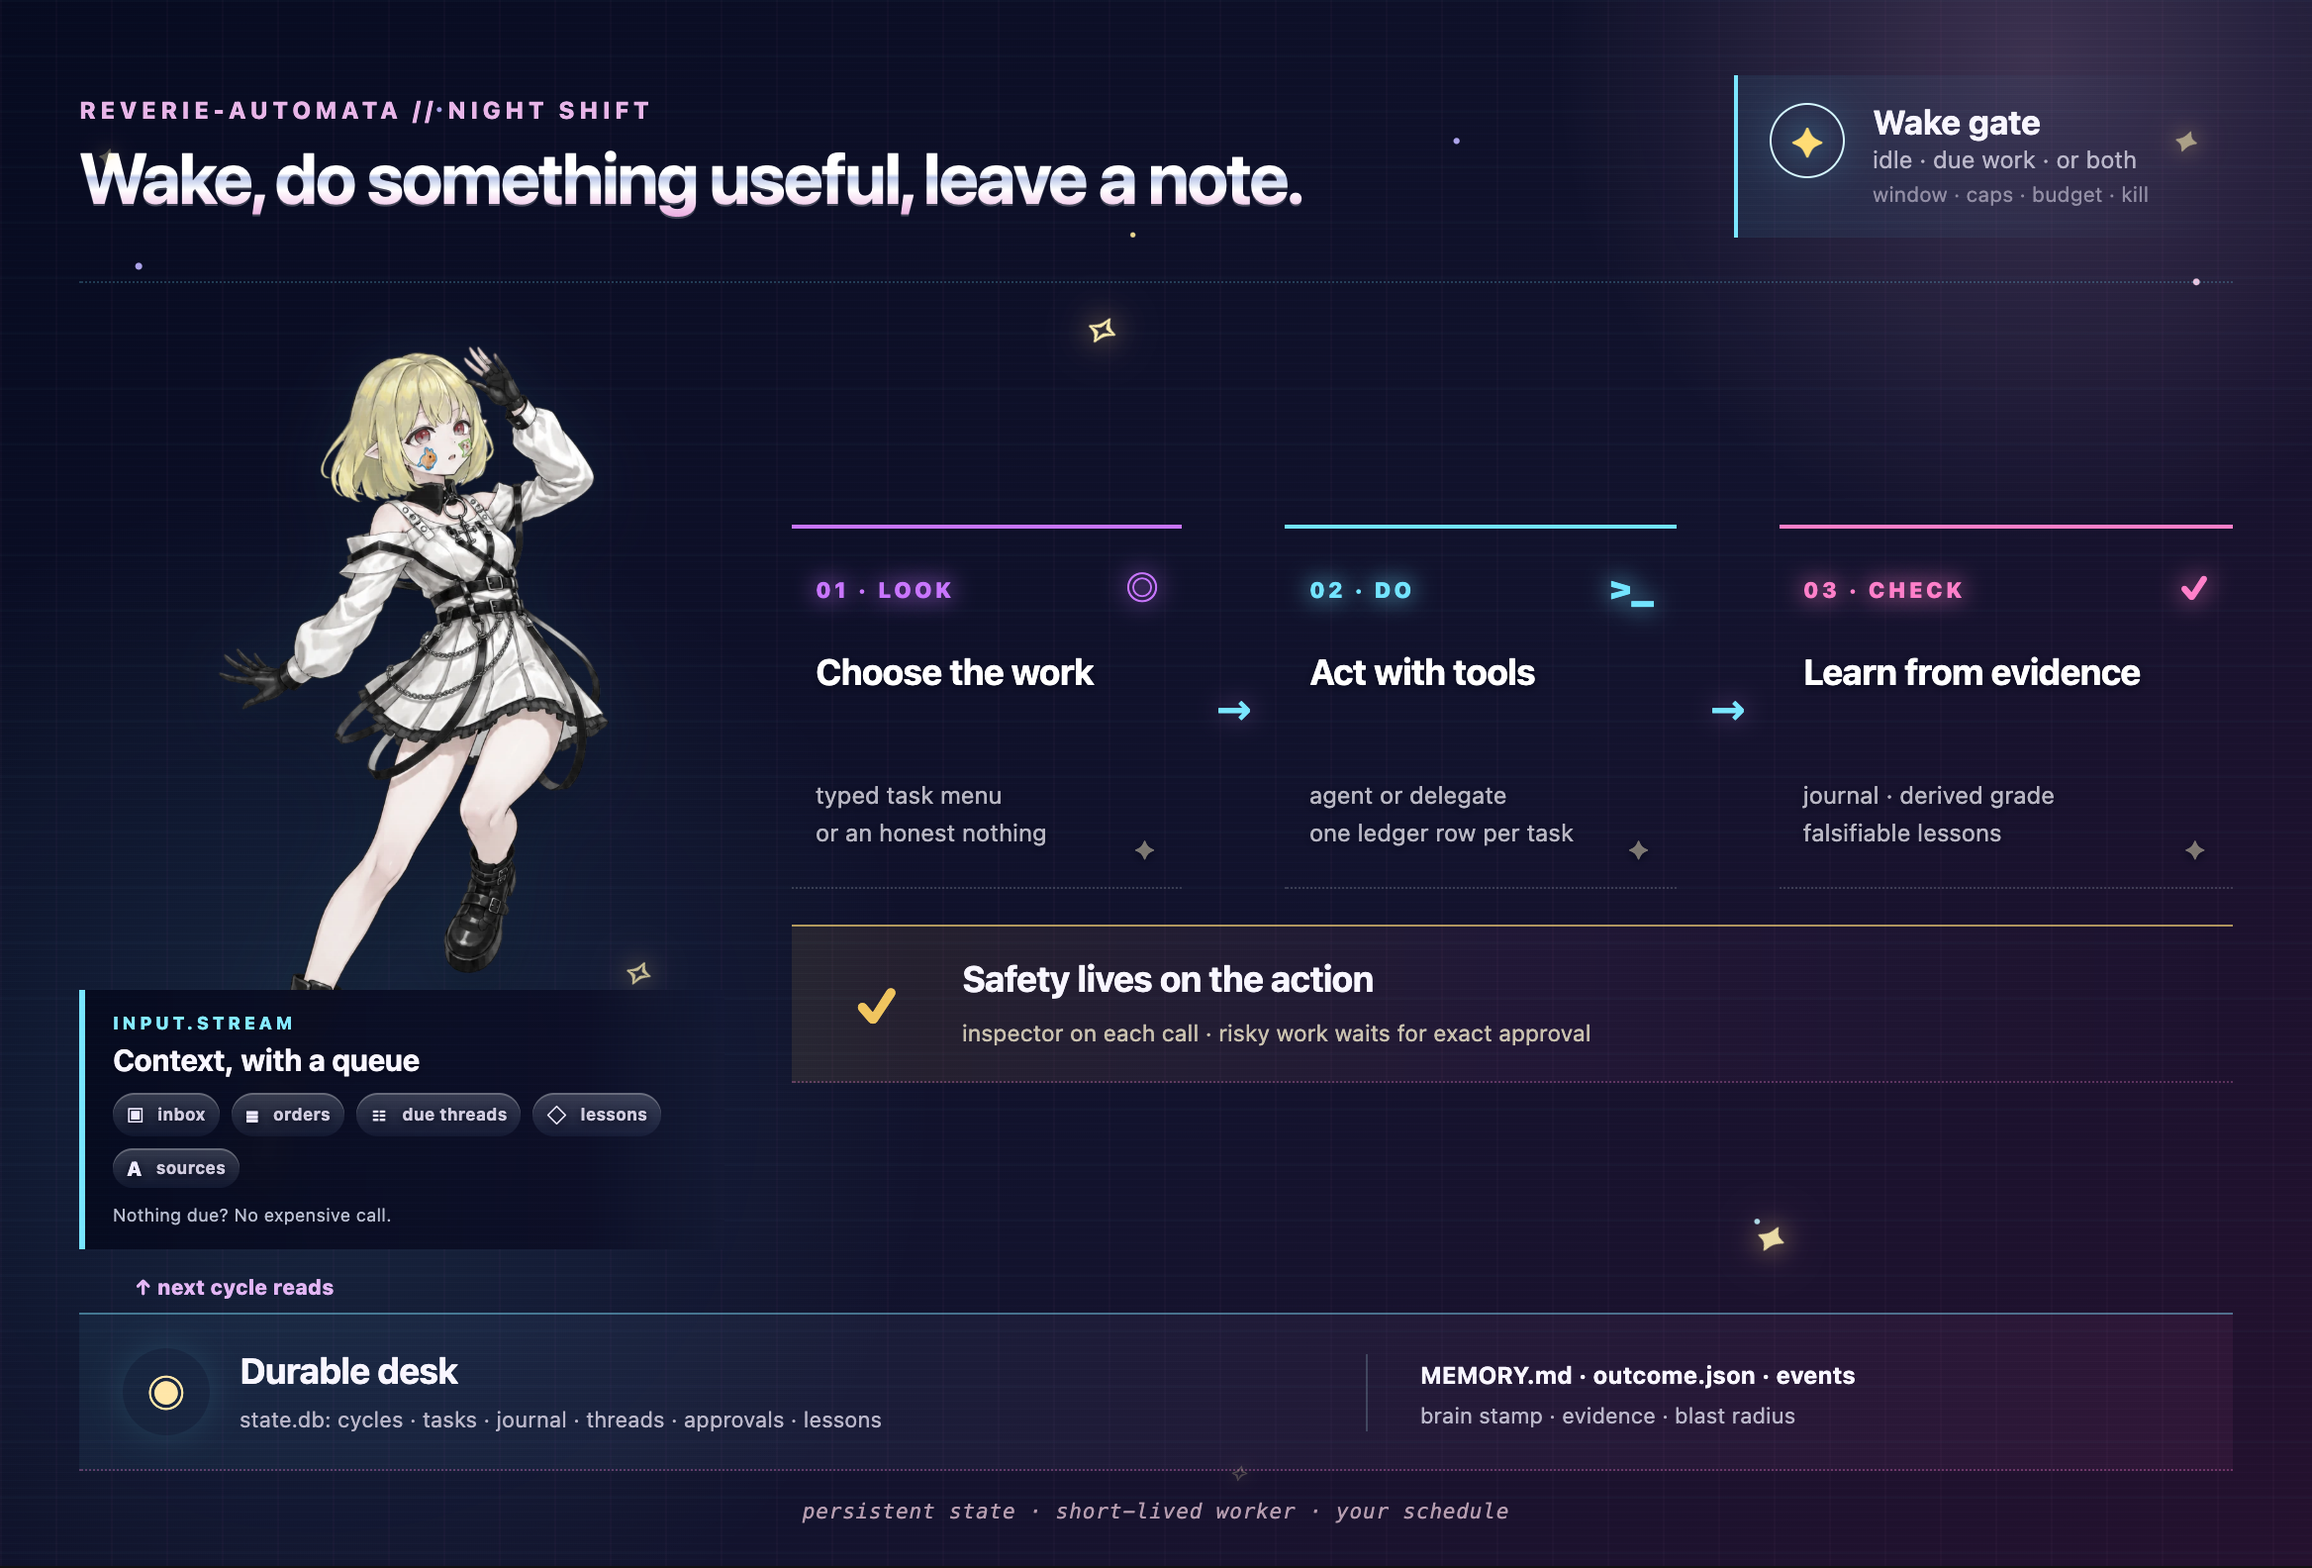
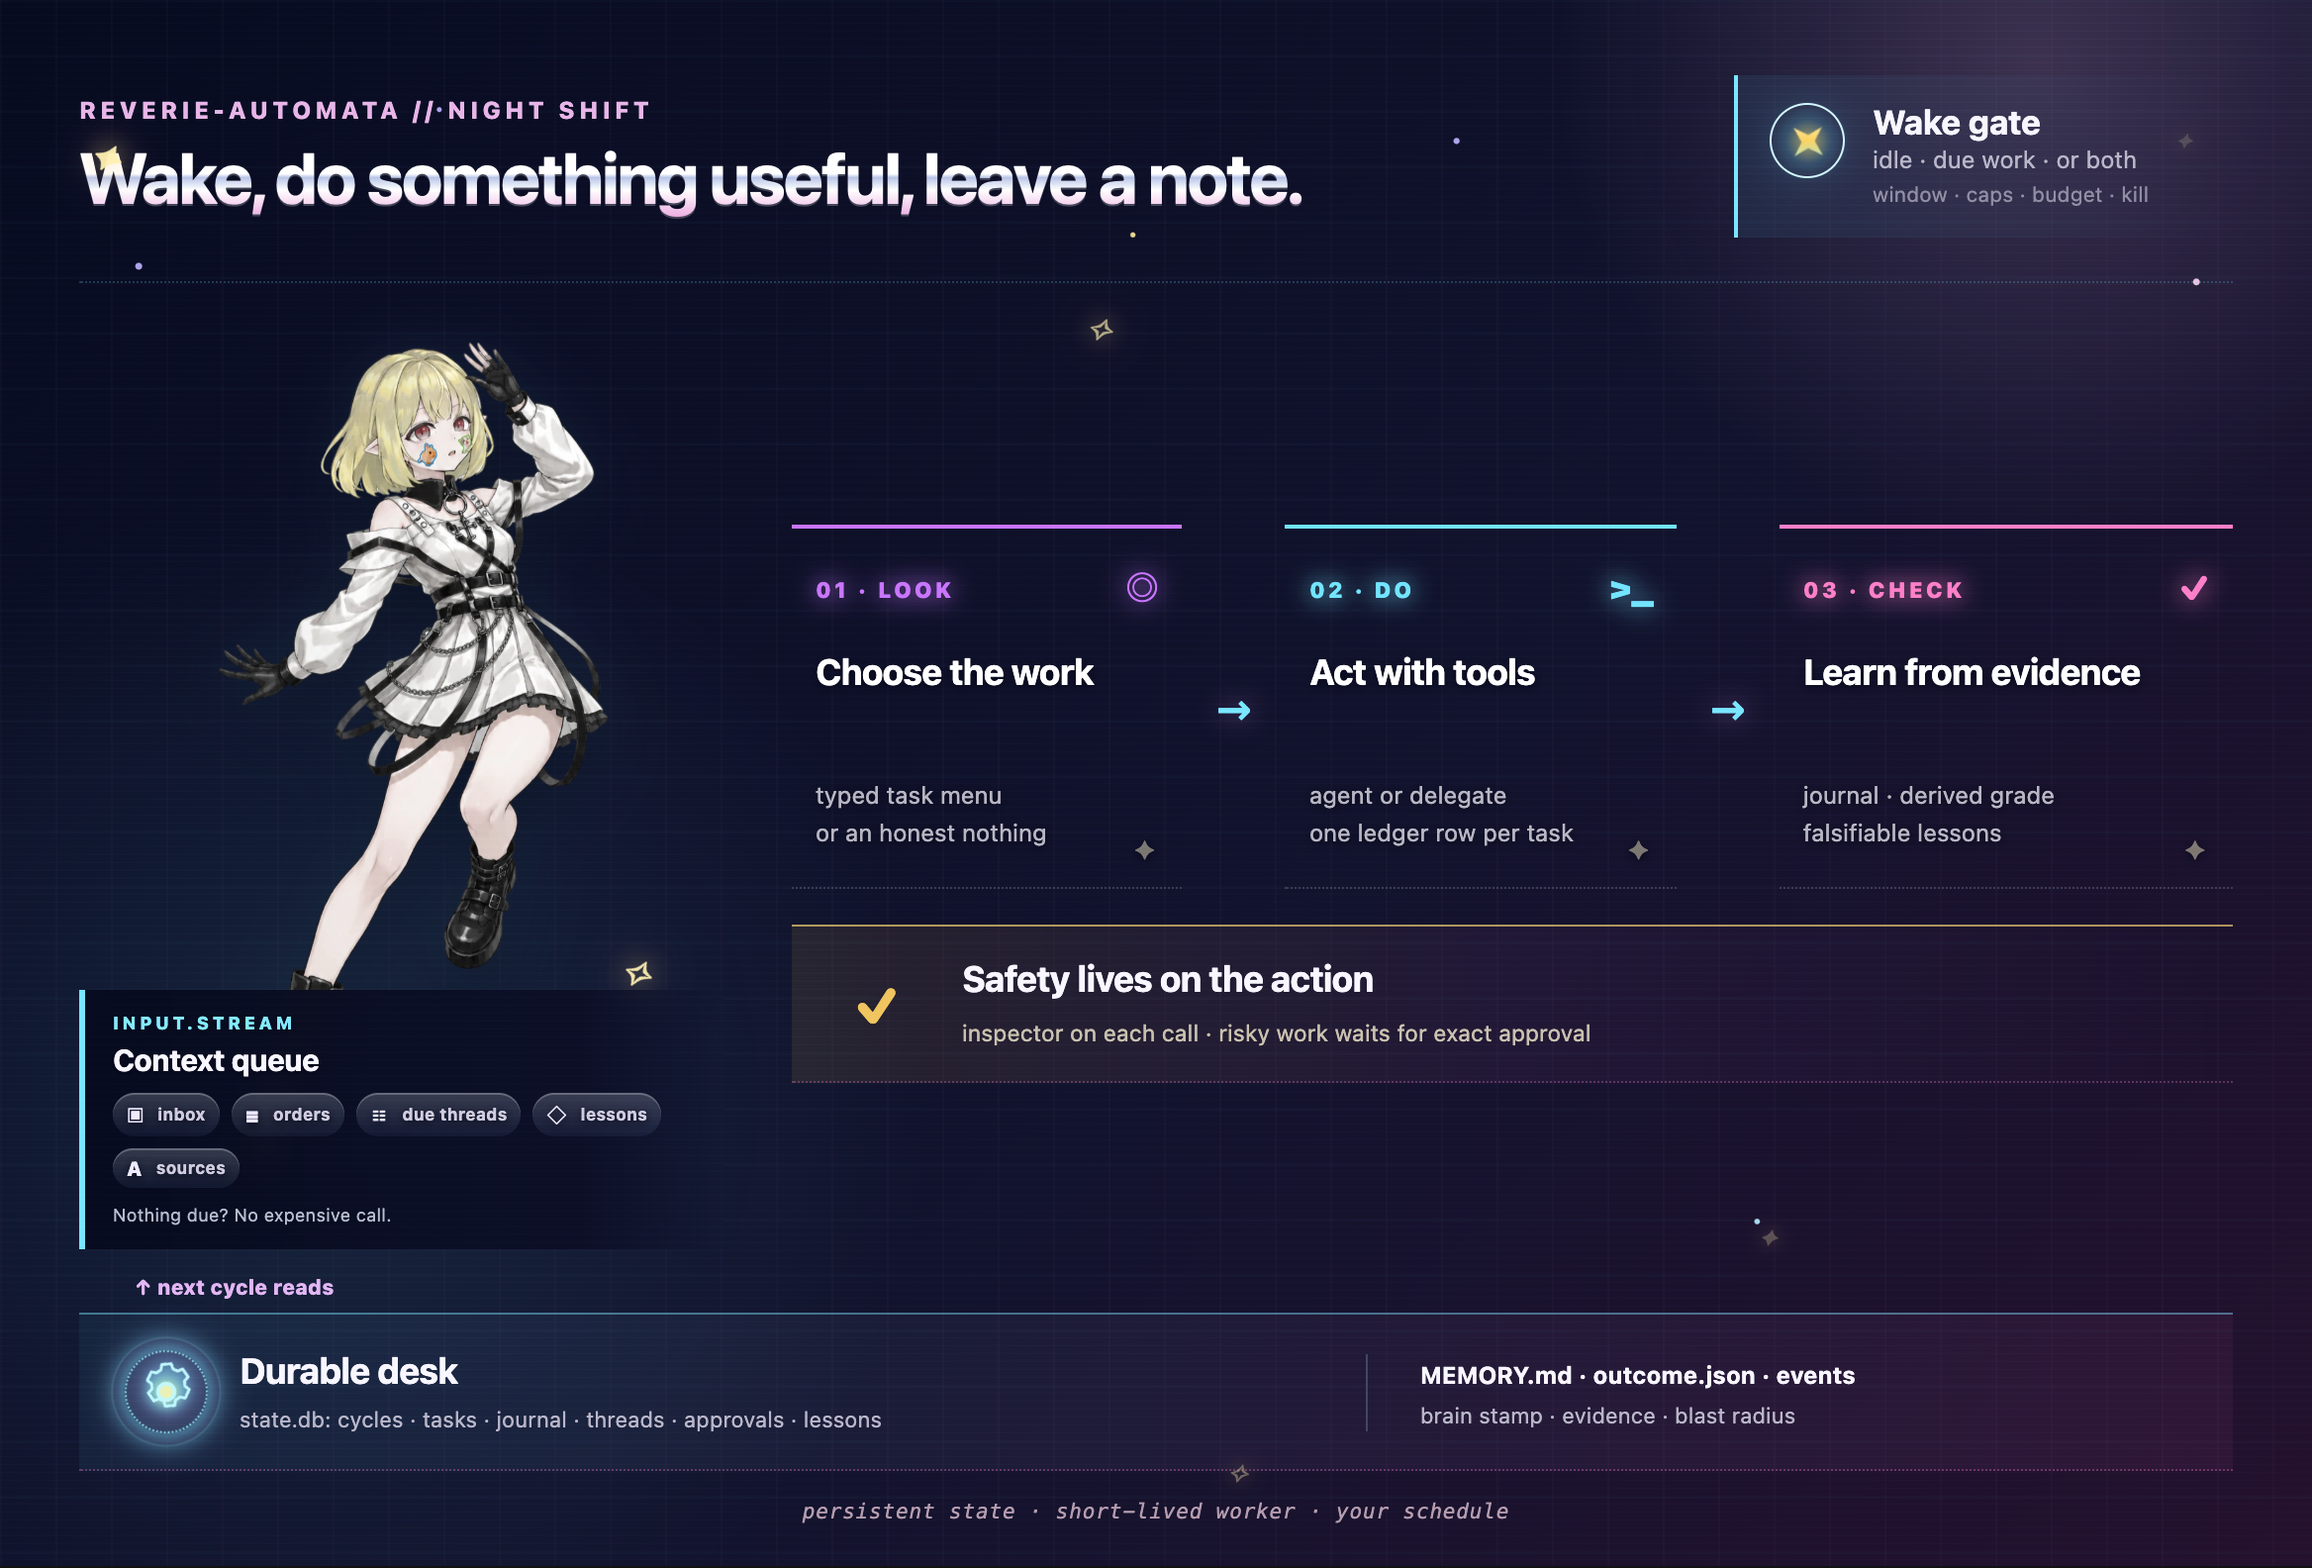
Sharpen the animated night shift

diff --git a/docs/diagram.html b/docs/diagram.html
@@ -229,6 +229,23 @@
 
     @keyframes orbit { to { transform: rotate(378deg); } }
 
+    @keyframes gate-pulse {
+      0%, 100% { transform: scale(.78) rotate(0deg); opacity: .68; filter: blur(.15px); }
+      50% { transform: scale(1.08) rotate(45deg); opacity: 1; filter: blur(0); }
+    }
+
+    @keyframes gate-halo {
+      0%, 100% { opacity: .25; transform: scale(.72); }
+      50% { opacity: .85; transform: scale(1.16); }
+    }
+
+    @keyframes synholon-spin { to { transform: rotate(360deg); } }
+
+    @keyframes synholon-breathe {
+      0%, 100% { opacity: .52; transform: scale(.88); }
+      50% { opacity: 1; transform: scale(1.08); }
+    }
+
     .workbench {
       position: relative;
       display: grid;
@@ -532,6 +549,33 @@
       box-shadow: 0 0 20px rgba(102, 223, 255, .16);
     }
 
+    .pulse-star {
+      position: relative;
+      display: block;
+      width: 19px;
+      height: 19px;
+      animation: gate-pulse 2.2s ease-in-out infinite;
+    }
+
+    .pulse-star::before {
+      content: "";
+      position: absolute;
+      inset: 0;
+      clip-path: polygon(50% 0, 61% 38%, 100% 50%, 61% 62%, 50% 100%, 39% 62%, 0 50%, 39% 38%);
+      background: linear-gradient(135deg, #fff8c8, #ffd561 48%, #8ff2ff);
+      box-shadow: 0 0 10px #ffe778;
+    }
+
+    .pulse-star::after {
+      content: "";
+      position: absolute;
+      inset: -8px;
+      z-index: -1;
+      border-radius: 50%;
+      background: radial-gradient(circle, rgba(255, 225, 103, .7), rgba(114, 232, 255, .18) 38%, transparent 69%);
+      animation: gate-halo 2.2s ease-in-out infinite;
+    }
+
     .workbench { grid-template-columns: 340px minmax(0, 1fr); }
 
     .mascot-panel {
@@ -649,7 +693,64 @@
       box-shadow: none;
     }
 
-    .db-icon { border: 0; box-shadow: 0 0 18px rgba(109, 229, 255, .14); }
+    .db-icon {
+      position: relative;
+      overflow: visible;
+      border: 0;
+      color: #bff8ff;
+      background: radial-gradient(circle, rgba(133, 232, 255, .16), transparent 66%);
+      box-shadow: 0 0 22px rgba(109, 229, 255, .16);
+    }
+
+    .db-icon::before {
+      content: "";
+      position: absolute;
+      inset: -5px;
+      border: 1px solid rgba(147, 240, 255, .24);
+      border-radius: 50%;
+      box-shadow: 0 0 12px rgba(110, 237, 255, .32), inset 0 0 12px rgba(235, 156, 255, .12);
+      animation: synholon-breathe 2.8s ease-in-out infinite;
+    }
+
+    .synholon-gear {
+      position: relative;
+      width: 32px;
+      height: 32px;
+      filter: drop-shadow(0 0 4px #65e7ff) drop-shadow(0 0 8px rgba(228, 132, 255, .56));
+      animation: synholon-spin 6s linear infinite;
+    }
+
+    .synholon-gear::before {
+      content: "";
+      position: absolute;
+      inset: -5px;
+      border-radius: 50%;
+      border: 1px dotted rgba(151, 245, 255, .82);
+      box-shadow: 0 0 8px rgba(112, 235, 255, .62);
+    }
+
+    .synholon-gear::after {
+      content: "";
+      position: absolute;
+      inset: 11px;
+      border-radius: 50%;
+      background: #fff3a8;
+      box-shadow: 0 0 7px #ffe989, 0 0 12px rgba(111, 239, 255, .86);
+    }
+
+    .synholon-gear svg {
+      position: relative;
+      z-index: 1;
+      display: block;
+      width: 100%;
+      height: 100%;
+      overflow: visible;
+      fill: rgba(111, 231, 255, .08);
+      stroke: currentColor;
+      stroke-width: 1.35;
+      stroke-linecap: round;
+      stroke-linejoin: round;
+    }
     .footer { font-family: ui-monospace, SFMono-Regular, Menlo, monospace; letter-spacing: .04em; }
 
     @media (max-width: 840px) {
@@ -669,7 +770,8 @@
     }
 
     @media (prefers-reduced-motion: reduce) {
-      .sparkle, .mascot-panel img { animation: none; }
+      .sparkle, .mascot-panel img, .pulse-star, .pulse-star::after,
+      .db-icon::before, .synholon-gear { animation: none; }
     }
   </style>
 </head>
@@ -685,7 +787,7 @@
         <h1>Wake, do something useful, leave a note.</h1>
       </div>
       <section class="gate" aria-label="Wake gate">
-        <div class="gate-icon">✦</div>
+        <div class="gate-icon"><span class="pulse-star" aria-hidden="true"></span></div>
         <strong>Wake gate</strong>
         <span>idle · due work · or both</span>
         <small>window · caps · budget · kill</small>
@@ -698,7 +800,7 @@
         <aside class="context">
           <div>
             <p class="eyebrow">INPUT.STREAM</p>
-            <h2>Context, with a queue</h2>
+            <h2>Context queue</h2>
           </div>
           <div class="chips">
             <span class="chip"><b>▣</b> inbox</span>
@@ -757,7 +859,14 @@
 
     <section class="state">
       <div class="state-main">
-        <div class="db-icon">◉</div>
+        <div class="db-icon">
+          <span class="synholon-gear" aria-hidden="true">
+            <svg viewBox="0 0 24 24">
+              <path d="M12.22 2H7.78l-.54 2.47-2.12 1.22-2.36-.77L.54 8.77l1.82 1.69v2.44L.54 14.59l2.22 3.85 2.36-.77 2.12 1.22.54 2.47h4.44l.54-2.47 2.12-1.22 2.36.77 2.22-3.85-1.82-1.69v-2.44l1.82-1.69-2.22-3.85-2.36.77-2.12-1.22L12.22 2Z" transform="translate(2.11 .32) scale(.82)"/>
+              <circle cx="12" cy="12" r="3.1"/>
+            </svg>
+          </span>
+        </div>
         <h2>Durable desk</h2>
         <p>state.db: cycles · tasks · journal · threads · approvals · lessons</p>
       </div>
